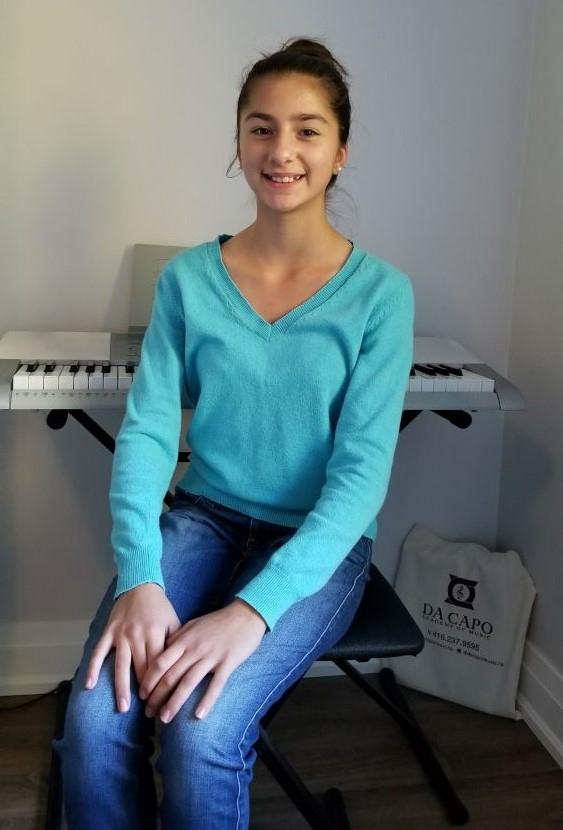
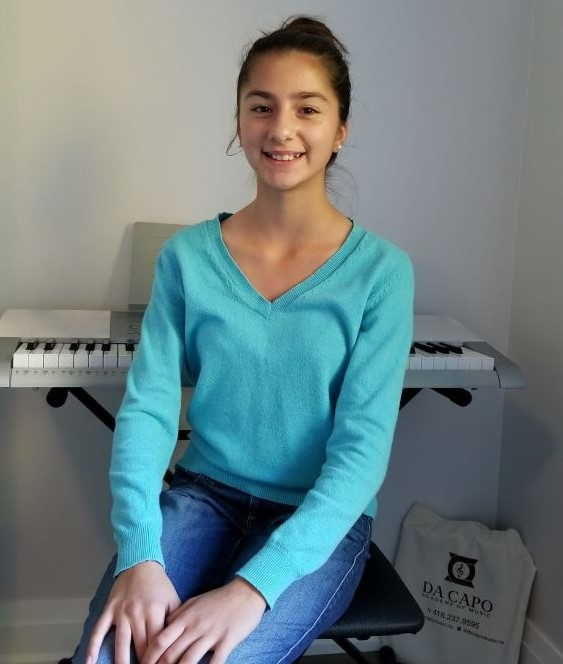
fixed carousel by adjusting each image

diff --git a/index.html b/index.html
@@ -223,28 +223,28 @@
       <div id="carouselExampleControls" class="carousel slide" data-bs-ride="carousel">
           <div class="carousel-inner">
               <div class="carousel-item active">
-                <img src="img/slider/avery1.jpg" class="d-block w-25 mx-auto" alt="...">
+                <img src="img/slider/avery2.jpg" class="d-block w-25 mx-auto" alt="...">
               </div>
               <div class="carousel-item">
-                <img src="img/slider/mateo1.jpg" class="d-block w-25 mx-auto" alt="...">
+                <img src="img/slider/mateo2.jpg" class="d-block w-25 mx-auto" alt="...">
               </div>
               <div class="carousel-item">
-                <img src="img/slider/mia1.jpg" class="d-block w-25 mx-auto" alt="...">
+                <img src="img/slider/nastya2.jpg" class="d-block w-25 mx-auto" alt="...">
               </div>
               <div class="carousel-item">
-                <img src="img/slider/nastya1.jpg" class="d-block w-25 mx-auto" alt="...">
+                <img src="img/slider/nikhil2.jpg" class="d-block w-25 mx-auto" alt="...">
               </div>
               <div class="carousel-item">
-                <img src="img/slider/nikhil1.jpg" class="d-block w-25 mx-auto" alt="...">
+                <img src="img/slider/peter2.jpg" class="d-block w-25 mx-auto" alt="...">
               </div>
               <div class="carousel-item">
-                <img src="img/slider/peter1.jpg" class="d-block w-25 mx-auto" alt="...">
+                <img src="img/slider/sarah2.jpeg" class="d-block w-25 mx-auto" alt="...">
               </div>
               <div class="carousel-item">
-                <img src="img/slider/sarah1.jpeg" class="d-block w-25 mx-auto" alt="...">
+                <img src="img/slider/mia2.jpg" class="d-block w-25 mx-auto" alt="...">
               </div>
               <div class="carousel-item">
-                <img src="img/slider/sean1.jpeg" class="d-block w-25 mx-auto" alt="...">
+                <img src="img/slider/sean2.jpeg" class="d-block w-25 mx-auto" alt="...">
               </div>
               <div class="carousel-item">
                 <img src="img/slider/sophia2.jpg" class="d-block w-25 mx-auto" alt="...">
@@ -262,6 +262,8 @@
       </div>
   </div>
 </div>
+
+
 <!--/SLIDER SECTION-->
 
 
@@ -556,7 +558,6 @@
       </div>
   </div><!--/footer row-->
 </div><!--/footer container-->
-
 
 
 

diff --git a/css/style.css b/css/style.css
@@ -143,3 +143,9 @@ img {
 .img-floated {
     float: left;
 }
+
+
+.carousel-item img {
+    width: auto;
+    height: 350px;
+}
